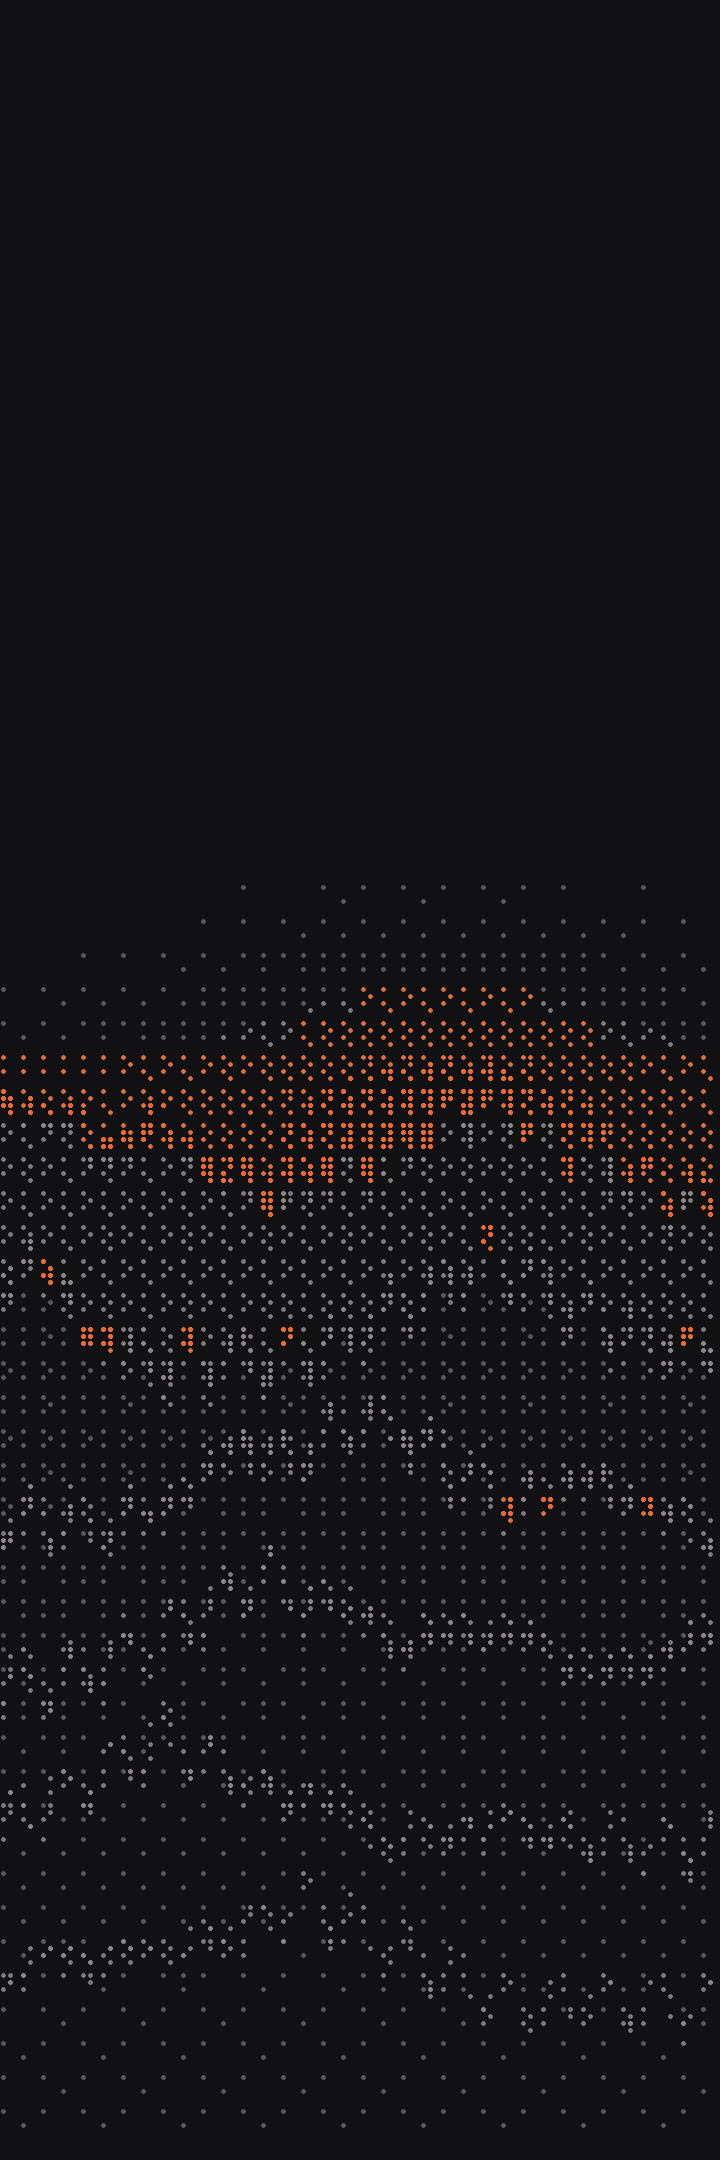
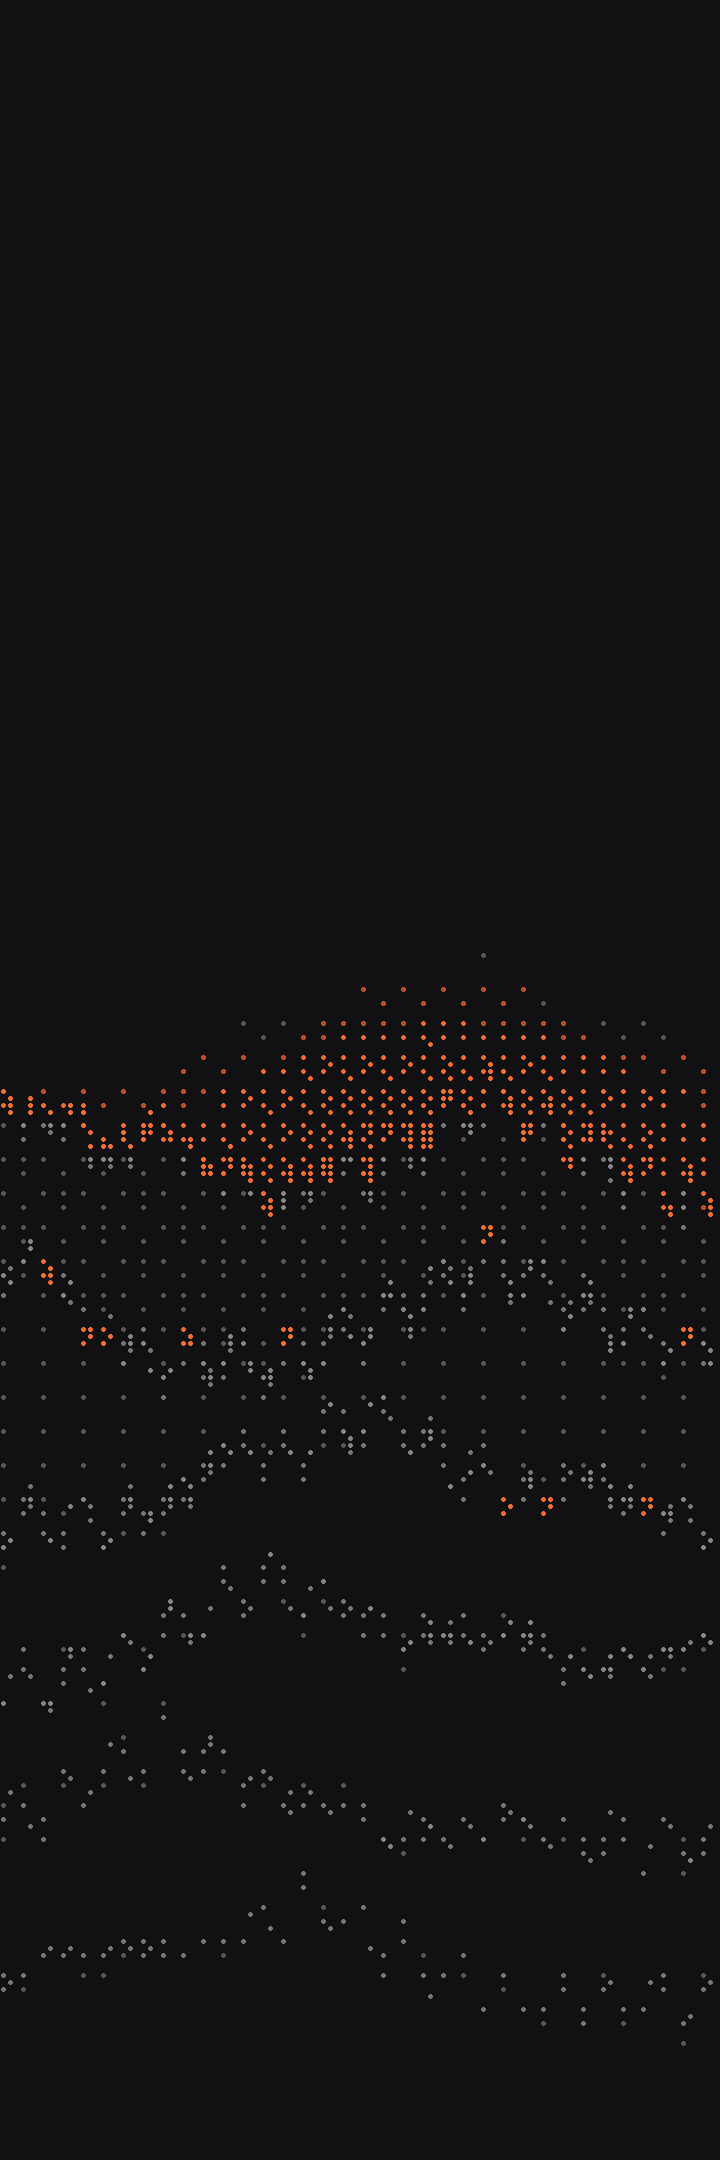
ASCII Ramp and Braille draw their mountains' outlines, without a haze of faint glyphs around them

diff --git a/assets/backgrounds/make_collections.py b/assets/backgrounds/make_collections.py
@@ -180,7 +180,7 @@ def cells(a, cols, rows):
     return np.asarray(Image.fromarray((np.clip(a, 0, 1) * 255).astype(np.uint8)).resize((cols, rows), Image.BOX), dtype=np.float64) / 255
 
 
-def draw_ramp(D, W, size, pal, chars=" .'`:-=+*%#@", px=18, lift=0.5):
+def draw_ramp(D, W, size, pal, chars=" .'`:-=+*%#@", px=18, lift=0.5, cut=0.0):
     """Classic ASCII: one character per cell, sparser to denser."""
     f = font(px)
     cw, ch = int(f.getlength("M")), int(px * 1.25)
@@ -193,7 +193,7 @@ def draw_ramp(D, W, size, pal, chars=" .'`:-=+*%#@", px=18, lift=0.5):
         for c in range(cols):
             v = d[r, c]
             k = int(v * (len(chars) - 1) + 0.5)
-            if k == 0:
+            if k == 0 or v < cut:
                 continue
             dr.text((ox + c * cw, r * ch), chars[k], font=f, fill=ascii_colour(pal, 0.3 + v * 0.8, w[r, c] > 0.5))
     return img
@@ -203,7 +203,7 @@ def draw_braille(D, W, size, pal, pitch=7, gap=6):
     """Braille: characters of 2×4 dots, each dot on where the dithered light is."""
     cell_w, cell_h = 2 * pitch + gap, 4 * pitch + gap
     cols, rows = size[0] // cell_w, size[1] // cell_h
-    dots = cells(D, cols * 2, rows * 4) ** 0.7
+    dots = cells(D, cols * 2, rows * 4)
     w = cells(W, cols, rows)
     img = Image.new("RGB", (size[0] * 2, size[1] * 2), rgb(pal["ground"]))
     dr = ImageDraw.Draw(img)
@@ -211,7 +211,7 @@ def draw_braille(D, W, size, pal, pitch=7, gap=6):
     for y in range(rows * 4):
         for x in range(cols * 2):
             v = dots[y, x]
-            if v <= B8[y % 8, x % 8] * 0.9 + 0.06:
+            if v <= B8[y % 8, x % 8] * 0.8 + 0.16:
                 continue
             gx = ox + (x // 2) * cell_w + (x % 2) * pitch + pitch / 2
             gy = (y // 4) * cell_h + (y % 4) * pitch + pitch / 2
@@ -368,7 +368,7 @@ def scene(kind, w, h, seed=1):
             (ridge_line(w, seed + 1, 0.74, 0.05), 0.55, False),
             (ridge_line(w, seed + 2, 0.86, 0.04), 0.9, False),
         ]
-        sun = (0.24, 0.47, 0.035)
+        sun = (0.22, 0.36, 0.022)
     elif kind == "ranges":
         layers = [(ridge_line(w, seed + k, 0.56 + k * 0.075, 0.07 - k * 0.006, peaks=[(rnd.uniform(0.2, 0.8), 0.05, 0.3)]), k / 5, False) for k in range(6)]
         sun = (0.62, 0.55, 0.06)
@@ -463,7 +463,7 @@ def ascii_pieces(only):
     w, h = TALL
     hw, hh = w // 2, h // 2
     pieces = {
-        "ramp": ("peak", draw_ramp, 3),
+        "ramp": ("peak", lambda *a: draw_ramp(*a, cut=0.52), 3),
         "braille": ("ranges", draw_braille, 5),
         "halftone": ("lake", draw_halftone, 7),
         "blocks": ("forest", draw_blocks, 9),
